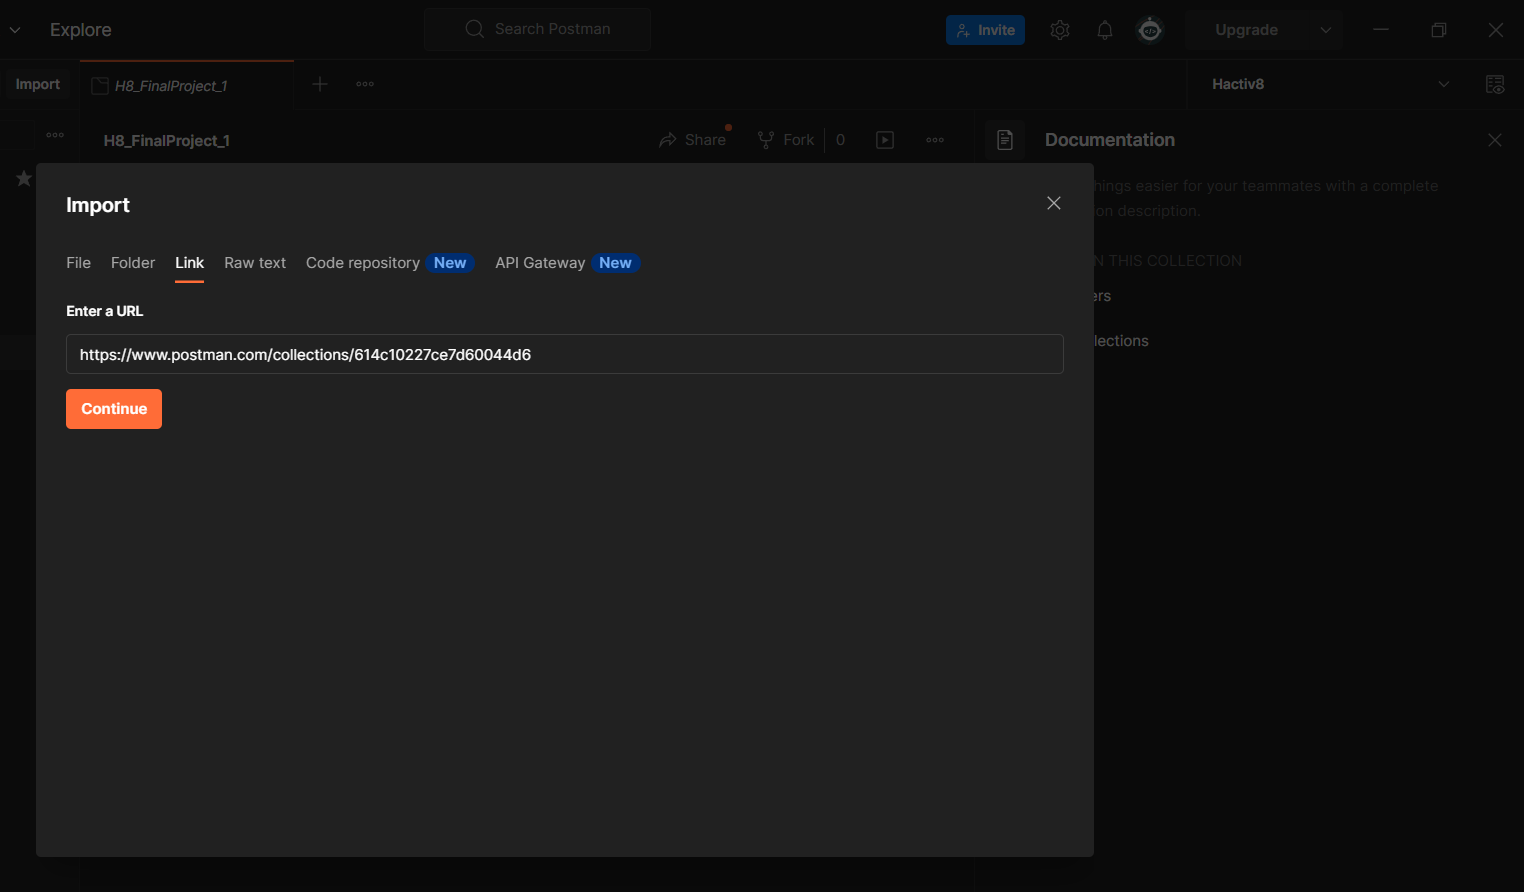
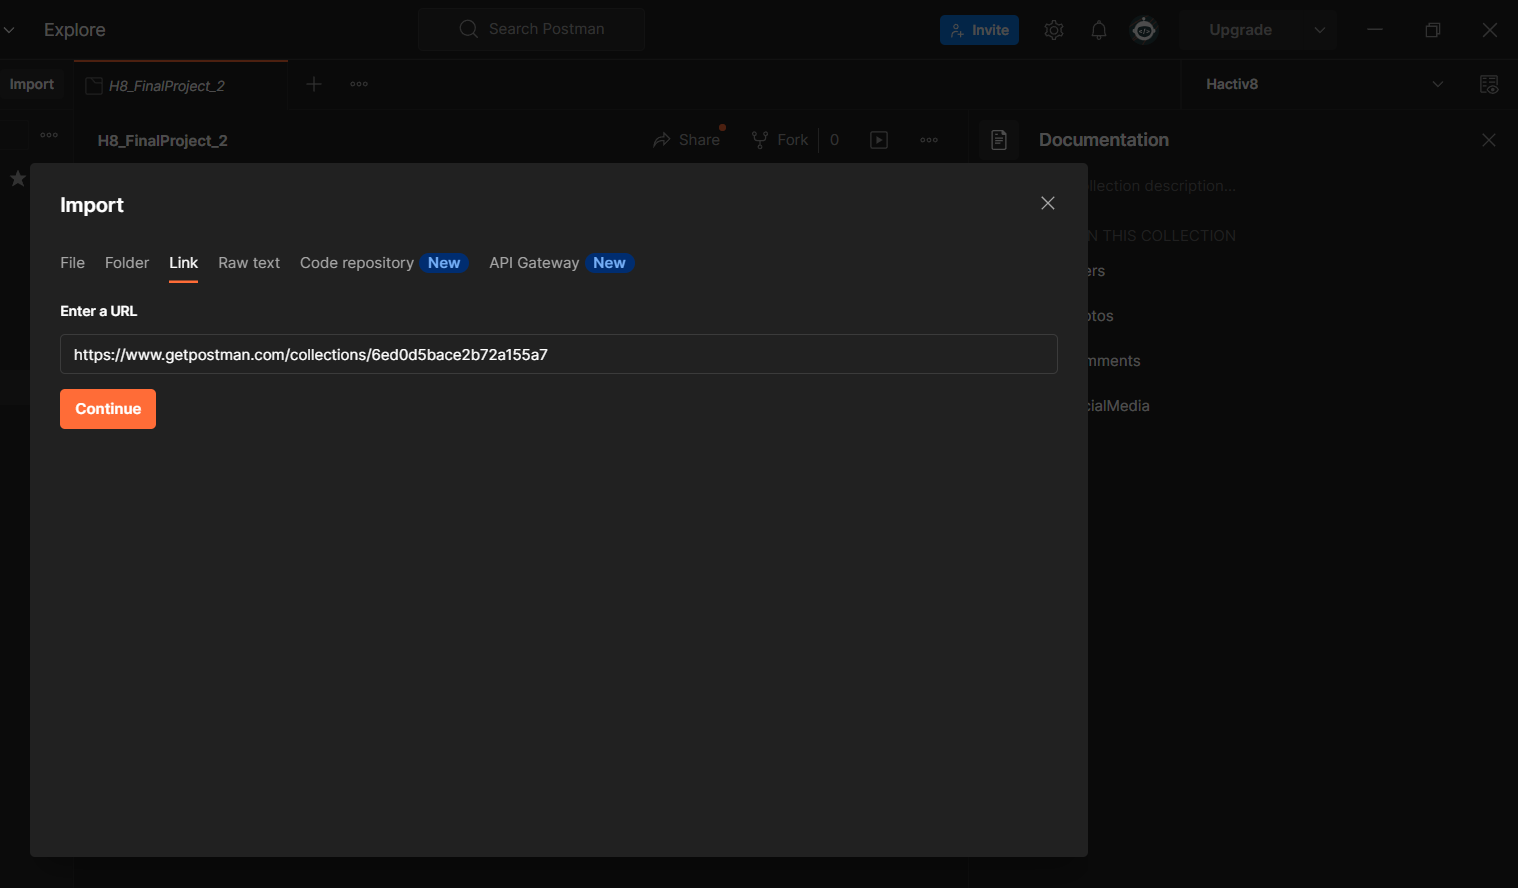
readme.md

diff --git a/README.md b/README.md
@@ -1,6 +1,15 @@
+## LINK HEROKU
+
+[Link deploy heroku](https://www.google.com)
+
+```bash
+# klik link above or copy link below
+https://www.google.com
+```
+
 ## POSTMAN
 
-[Link to import postman](https://www.getpostman.com/collections/614c10227ce7d60044d6)
+[Link to import postman](https://www.getpostman.com/collections/6ed0d5bace2b72a155a7)
 ![](Postman.png)
 
 ```bash
@@ -40,7 +49,7 @@ $ npm install (to install dependencies on the project stored in package.json)
 
 ## DOCUMENTATION
 
-[See more documentaion here](./note.txt)
+[See more documentation here](./note.txt)
 
 ## License
 
